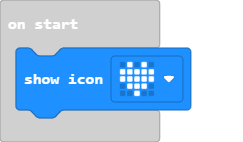
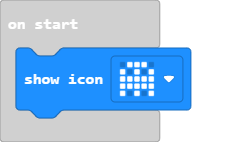
init

diff --git a/main.ts b/main.ts
@@ -1,4 +1,4 @@
-basic.showIcon(IconNames.Heart)
+basic.showIcon(IconNames.Ghost)
 basic.forever(function () {
     servos.P1.setAngle(input.lightLevel())
     led.plotBarGraph(
